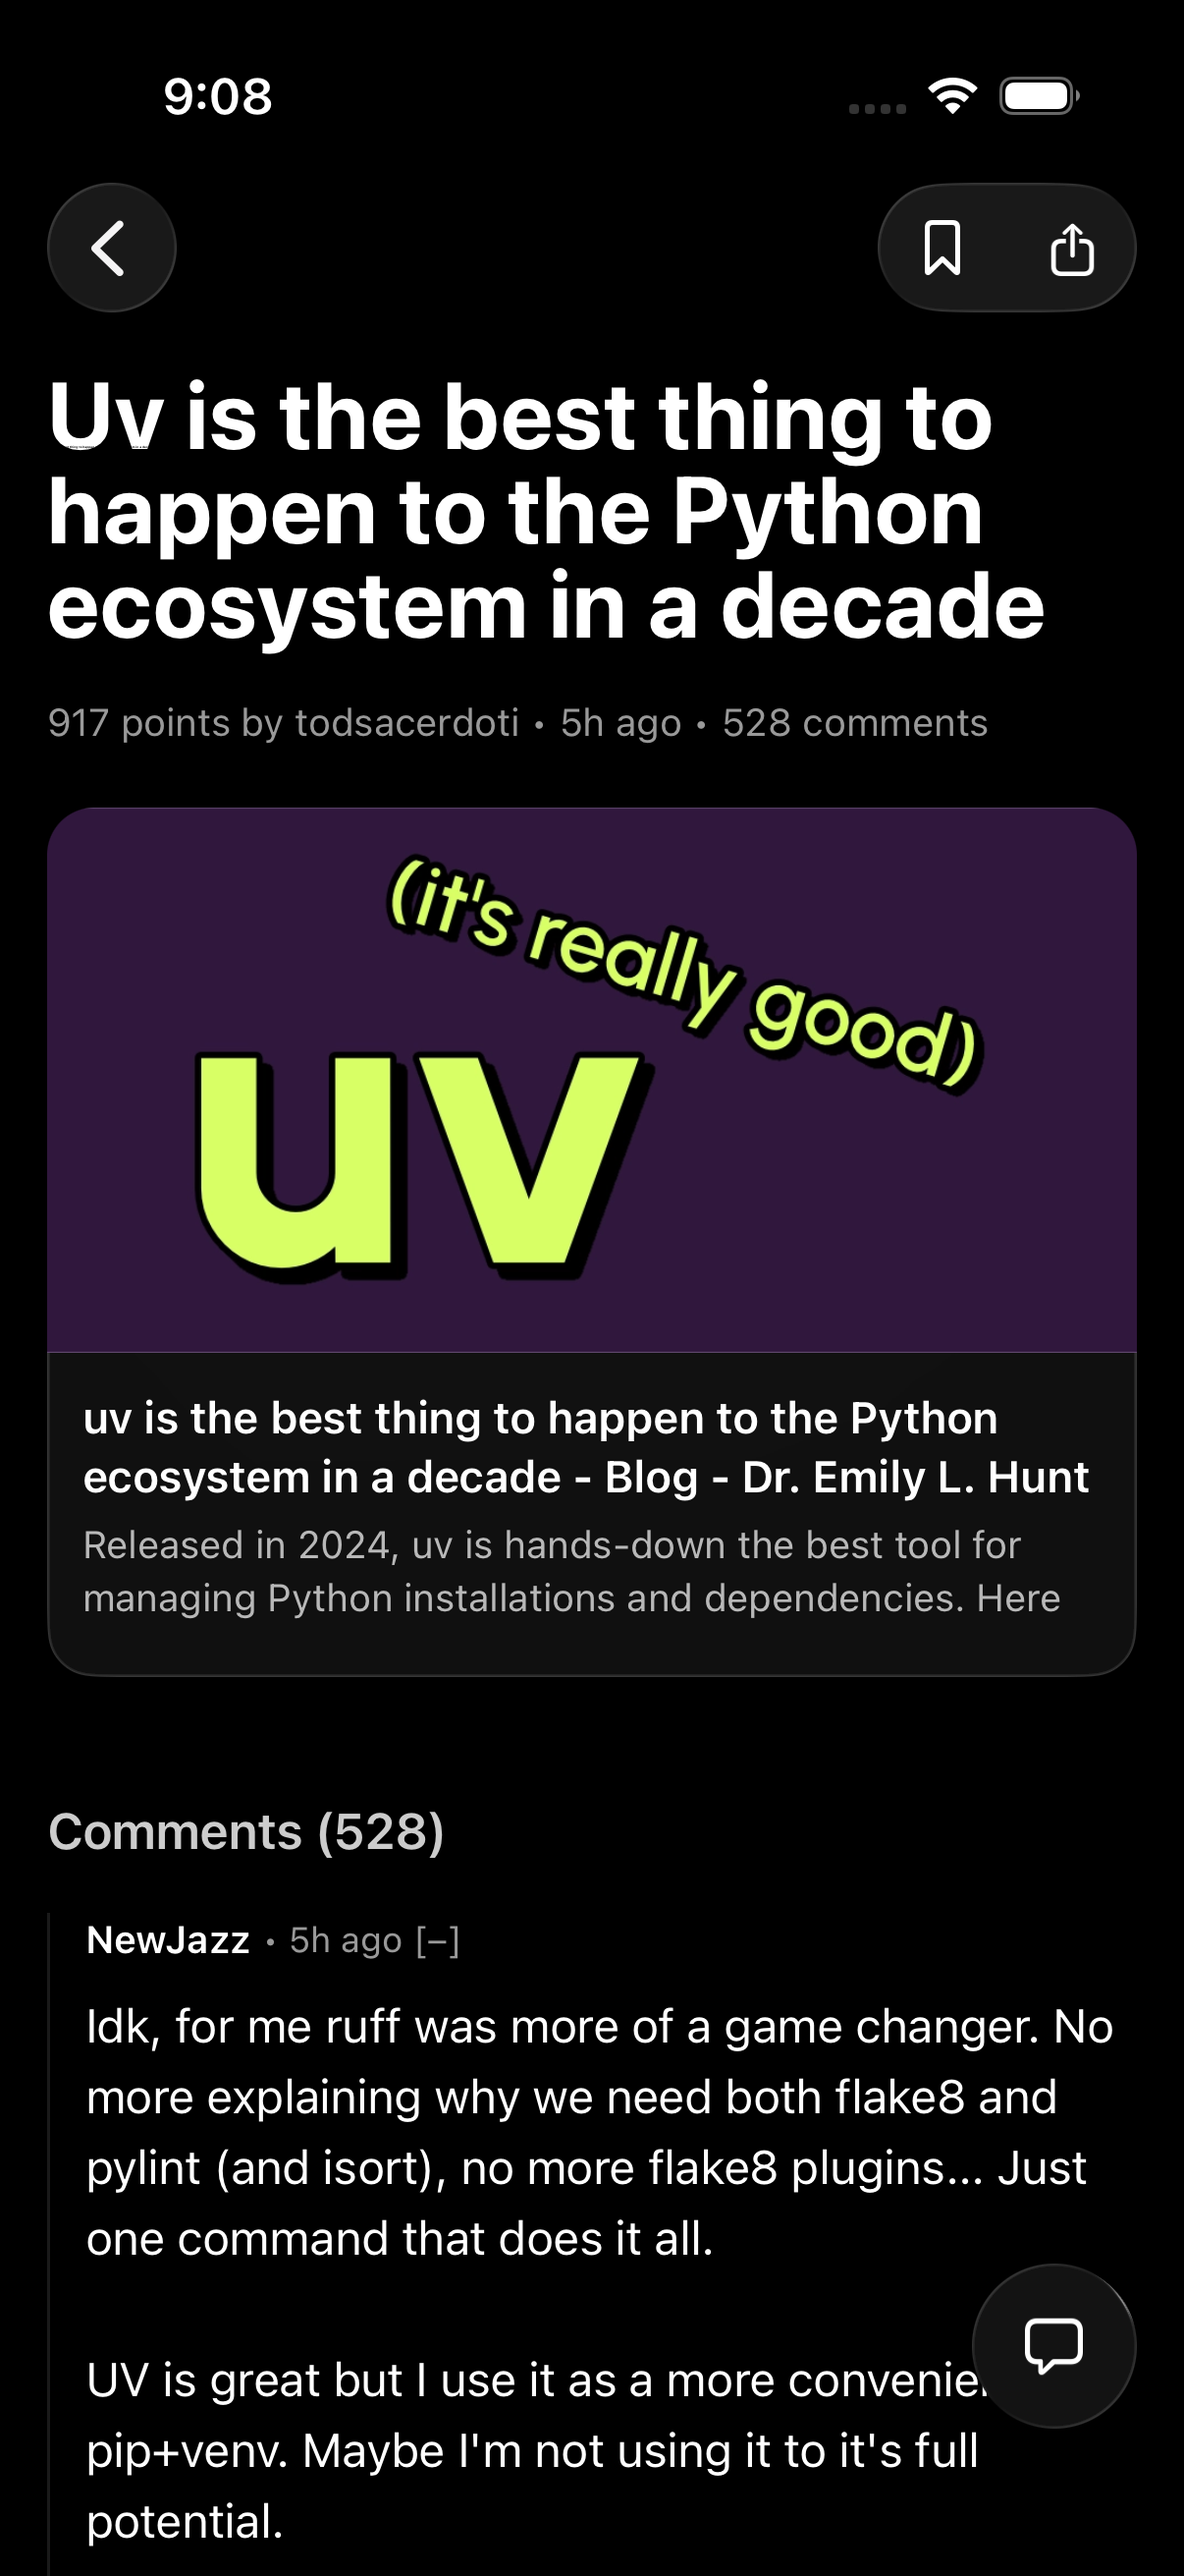
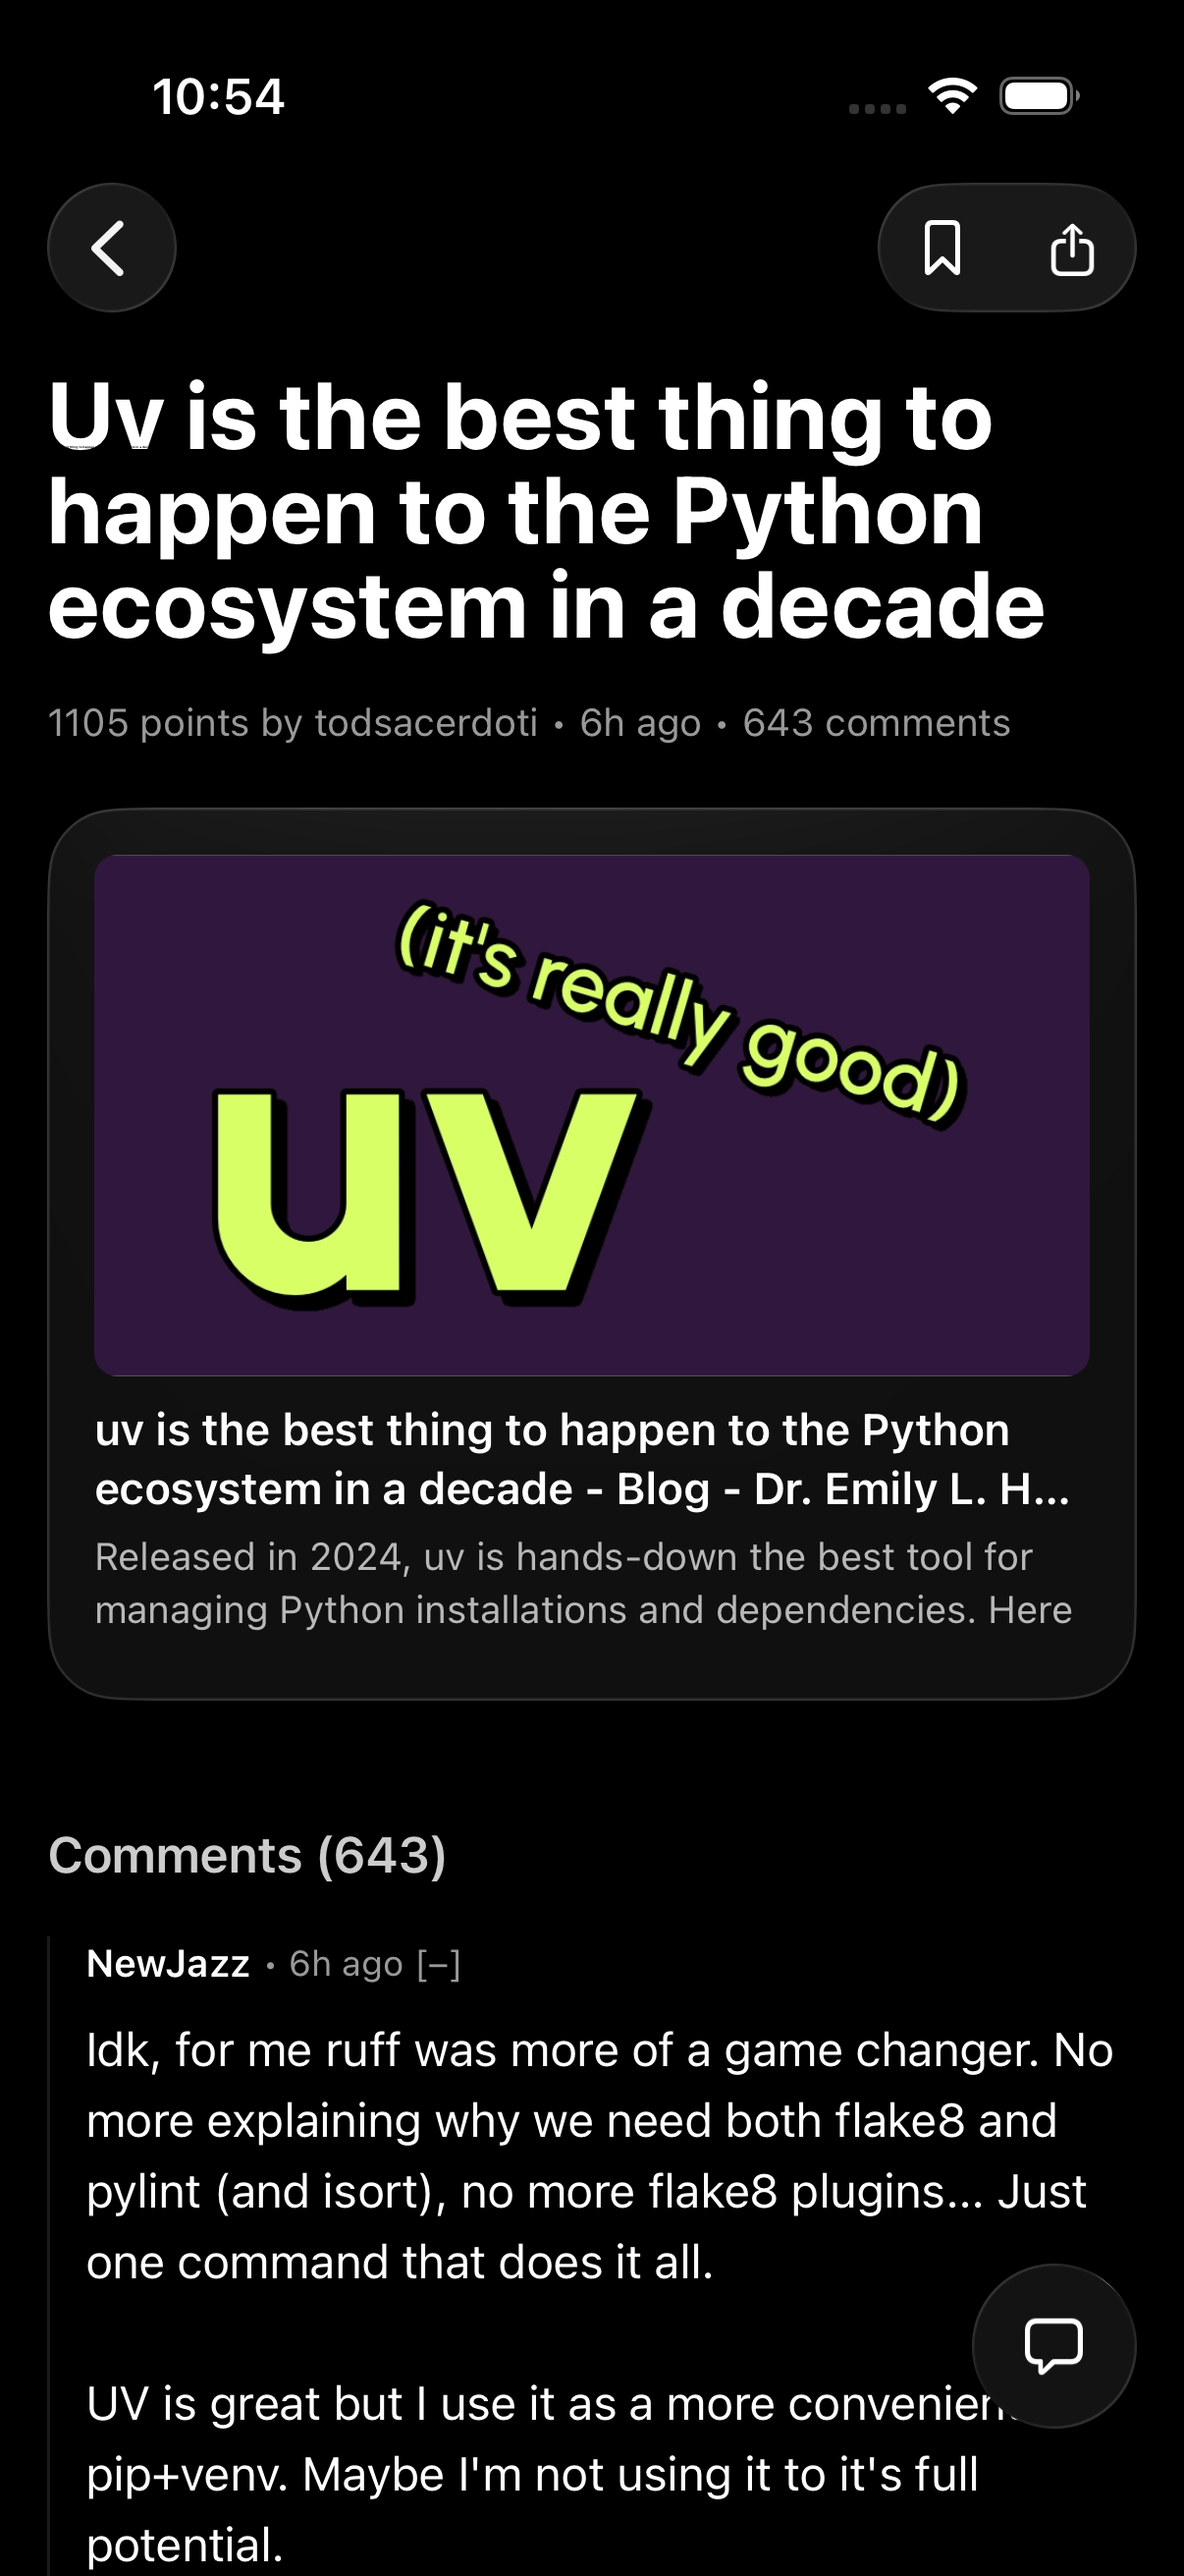
Refactor LinkPreview component to improve layout by adding an image container and adjusting styles; update aspect ratio for images to standard OG format; enhance overall padding and border radius for better visual consistency.

Changed region(s): [[0.0307, 0.278, 0.9818, 0.6487], [0.0307, 0.6796, 0.9511, 1.0], [0.1227, 0.0309, 0.2454, 0.0618]]

diff --git a/apps/mobile/components/link-preview.tsx b/apps/mobile/components/link-preview.tsx
@@ -62,16 +62,18 @@ export function LinkPreview({ url, compact = false }: LinkPreviewProps) {
       isInteractive
       style={[styles.container, { borderColor }]}
     >
-      {metadata.image && (
-        <Image
-          source={{ uri: metadata.image }}
-          style={[styles.image, { backgroundColor }]}
-          contentFit="cover"
-          transition={200}
-        />
-      )}
+      <View style={styles.imageContainer}>
+        {metadata.image && (
+          <Image
+            source={{ uri: metadata.image }}
+            style={[styles.image, { backgroundColor }]}
+            contentFit="cover"
+            transition={200}
+          />
+        )}
+      </View>
       {(metadata.title || metadata.description) && (
-        <View style={styles.textContainer}>
+        <View>
           {metadata.title && (
             <ThemedText style={styles.title} numberOfLines={2}>
               {metadata.title}
@@ -93,10 +95,11 @@ export function LinkPreview({ url, compact = false }: LinkPreviewProps) {
 
 const styles = StyleSheet.create({
   container: {
-    borderRadius: 16,
+    borderRadius: 24,
     borderWidth: isLiquidGlassAvailable() ? 0 : 1,
     overflow: "hidden",
     marginTop: 8,
+    padding: 16,
   },
   thumbnailContainer: {
     marginLeft: 8,
@@ -117,16 +120,13 @@ const styles = StyleSheet.create({
   },
   image: {
     width: "100%",
-    aspectRatio: 2,
+    aspectRatio: 1.91, // Standard OG image ratio (1200x630)
   },
   loadingContainer: {
     width: "100%",
-    aspectRatio: 2,
+    aspectRatio: 1.91, // Standard OG image ratio (1200x630)
     alignItems: "center",
     justifyContent: "center",
-  },
-  textContainer: {
-    padding: 12,
   },
   title: {
     fontSize: 15,
@@ -143,5 +143,10 @@ const styles = StyleSheet.create({
   siteName: {
     fontSize: 12,
     opacity: 0.5,
+  },
+  imageContainer: {
+    borderRadius: 8,
+    overflow: "hidden",
+    marginBottom: 8,
   },
 });
